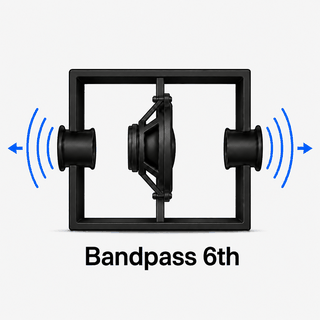
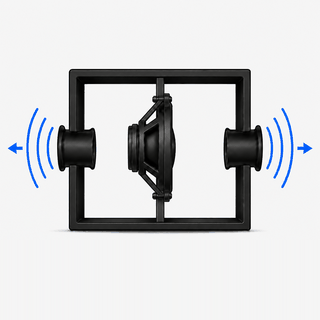
fix(ui): square acoustic load buttons with breathing room around diagrams

Changed region(s): [[0.25, 0.75, 0.75, 0.8438]]

diff --git a/ui_app.py b/ui_app.py
@@ -1231,25 +1231,30 @@ def _reflex_uses_passive_radiator(*, finder: bool = False) -> bool:
 
 
 @st.cache_data(show_spinner=False)
-def _load_type_card_styles(version: str = "bp8_v2") -> str:
+def _load_type_card_styles(version: str = "square_v2") -> str:
     """Return compact clickable-card CSS with the supplied diagrams embedded."""
     rules = [
         """
         <style>
         [class*="st-key-load_card_"] {
-            min-height: 6rem;
+            min-height: unset;
+        }
+        [class*="st-key-load_card_"] div[data-testid="stButton"] {
+            display: flex;
+            justify-content: center;
         }
         [class*="st-key-load_card_"] div[data-testid="stButton"] button {
             background-color: #f2f2f0;
             background-position: center;
             background-repeat: no-repeat;
-            background-size: cover;
+            background-size: 82% 82%;
             border: 1px solid rgba(255,255,255,.16);
             border-radius: .58rem;
             box-shadow: inset 0 1px 0 rgba(255,255,255,.06);
             filter: saturate(.72) brightness(.82) contrast(1.04);
-            height: 4.55rem;
-            min-height: 4.55rem;
+            aspect-ratio: 1 / 1;
+            height: auto;
+            min-height: unset;
             opacity: .88;
             overflow: hidden;
             padding: 0;
